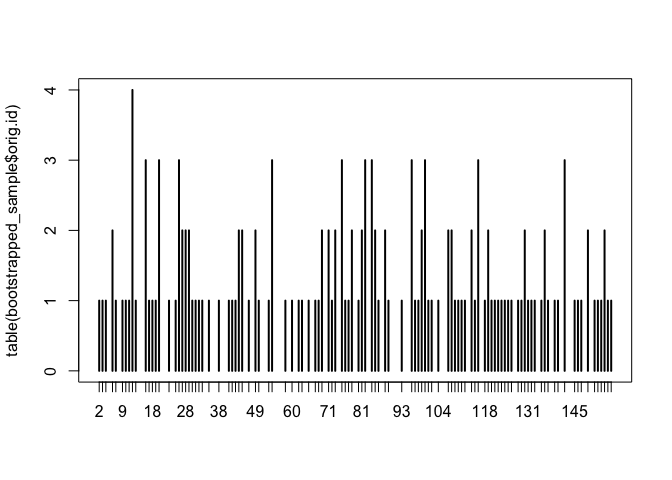
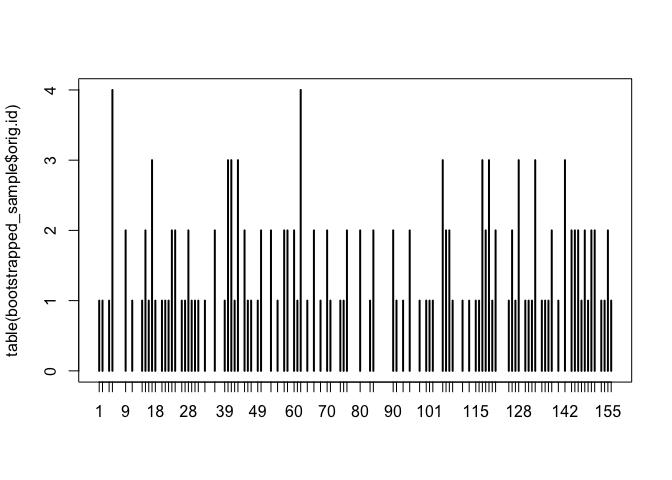
creatinine

Changed region(s): [[0.125, 0.1875, 0.9375, 0.875]]

diff --git a/creatinine/creatinine_bootstrap.md b/creatinine/creatinine_bootstrap.md
@@ -73,27 +73,27 @@ command.
     bootstrapped_sample = sample(creatinine, size = 157, replace=TRUE)
     head(bootstrapped_sample, 20)
 
-    ##      age creatclear orig.id
-    ## 6     36      127.0       6
-    ## 38    34      126.0      38
-    ## 154   24      135.3     154
-    ## 41    23      128.7      41
-    ## 44    26      137.9      44
-    ## 45    26      130.3      45
-    ## 7     38      139.5       7
-    ## 75    27      133.3      75
-    ## 10    32      134.7      10
-    ## 139   27      129.8     139
-    ## 20    71      105.5      20
-    ## 89    24      130.2      89
-    ## 75.1  27      133.3      75
-    ## 62    30      124.4      62
-    ## 49    24      129.0      49
-    ## 3     24      145.8       3
-    ## 104   26      129.6     104
-    ## 50    36      134.6      50
-    ## 9     38      115.2       9
-    ## 30    56      112.3      30
+    ##       age creatclear orig.id
+    ## 21     73      108.8      21
+    ## 53     32      137.9      53
+    ## 144    45      117.8     144
+    ## 130    32      126.6     130
+    ## 148    25      123.0     148
+    ## 135    74       96.6     135
+    ## 108    24      131.7     108
+    ## 93     21      135.9      93
+    ## 119    25      140.8     119
+    ## 57     61      118.6      57
+    ## 133    43      123.2     133
+    ## 18     34      128.6      18
+    ## 115    54      113.9     115
+    ## 46     31      133.9      46
+    ## 144.1  45      117.8     144
+    ## 60     39      124.6      60
+    ## 41     23      128.7      41
+    ## 80     37      121.3      80
+    ## 24     23      133.9      24
+    ## 31     32      117.5      31
 
 If you look carefully, you may see a repeated entry in these first 20
 rows. That's because our bootstrapped sample is a sample with
@@ -138,7 +138,7 @@ different sample means you get for each bootstrapped sample.
     bootstrapped_sample = resample(creatinine)
     mean(bootstrapped_sample$creatclear)
 
-    ## [1] 124.9943
+    ## [1] 124.8217
 
 The final trick is to use the `do` command to automatic the process of
 taking repeated bootstrapped samples and computing the sample mean for
@@ -150,16 +150,16 @@ each one.
     }
 
     ##      result
-    ## 1  124.7611
-    ## 2  125.5624
-    ## 3  124.6771
-    ## 4  125.5790
-    ## 5  126.1140
-    ## 6  124.7140
-    ## 7  125.4510
-    ## 8  123.9255
-    ## 9  124.5605
-    ## 10 123.1822
+    ## 1  126.8019
+    ## 2  123.8828
+    ## 3  125.7191
+    ## 4  126.9376
+    ## 5  125.8873
+    ## 6  124.5503
+    ## 7  125.3854
+    ## 8  124.3280
+    ## 9  125.8242
+    ## 10 124.7159
 
 If this looks unfamiliar, try revisiting the ["Gone
 fishing"](http://jgscott.github.io/teaching/r/gonefishing/gonefishing.html)
@@ -180,7 +180,7 @@ sample mean for each one and visualize the results.
 
     sd(myboot$result)
 
-    ## [1] 0.9551231
+    ## [1] 0.9392241
 
 Because we have different bootstrapped samples, your histogram and
 estimated standard error will look slightly different from mine. But
@@ -226,7 +226,7 @@ sample. Try executing this code block 5-10 different times:
     ## 
     ## Coefficients:
     ## (Intercept)          age  
-    ##    149.7146      -0.6648
+    ##    146.4965      -0.6011
 
 Notice how the slope and intercept of the fitted line change for each
 sample.
@@ -243,12 +243,12 @@ command to automate the whole process and save the result.
     head(myboot2)
 
     ##   Intercept        age    sigma r.squared        F numdf dendf .row .index
-    ## 1  148.4876 -0.6665638 6.483758 0.6955490 354.1132     1   155    1      1
-    ## 2  148.6391 -0.6402596 6.595094 0.6806043 330.2915     1   155    1      2
-    ## 3  148.8856 -0.6505005 7.166824 0.7131784 385.4056     1   155    1      3
-    ## 4  146.8832 -0.5789100 6.662946 0.5973721 229.9708     1   155    1      4
-    ## 5  148.5166 -0.6510012 6.963853 0.6124238 244.9214     1   155    1      5
-    ## 6  146.7119 -0.5863170 6.650395 0.6468713 283.9334     1   155    1      6
+    ## 1  148.2290 -0.6327054 6.787903 0.6262125 259.6741     1   155    1      1
+    ## 2  148.8770 -0.6332059 6.913182 0.6499207 287.7568     1   155    1      2
+    ## 3  148.6194 -0.6349592 6.703134 0.6934170 350.5727     1   155    1      3
+    ## 4  146.1254 -0.5865175 7.251837 0.6332982 267.6868     1   155    1      4
+    ## 5  148.2196 -0.6398906 6.912309 0.7048450 370.1479     1   155    1      5
+    ## 6  147.6896 -0.6231221 7.205105 0.6624543 304.1971     1   155    1      6
 
 Notice that we have separate columns for the intercept, slope on the age
 variable, sigma (the residual standard deviation), and R-squared. (Don't
@@ -261,7 +261,7 @@ distributions for the intercept and slope.
 
     sd(myboot2$Intercept)
 
-    ## [1] 1.42781
+    ## [1] 1.421574
 
     hist(myboot2$age)
 
@@ -269,7 +269,7 @@ distributions for the intercept and slope.
 
     sd(myboot2$age)
 
-    ## [1] 0.03813104
+    ## [1] 0.03839219
 
 ### Confidence intervals
 
@@ -292,7 +292,7 @@ endpoints on the plot.
     myinterval
 
     ##        10%        90% 
-    ## -0.6697513 -0.5721001
+    ## -0.6702646 -0.5749208
 
 We would refer to this interval as an 80% confidence interval for the
 slope of the age variable in our regression model. (As above, your
@@ -312,11 +312,11 @@ for all model parameters:
     confint(myboot2, level=0.8)
 
     ##        name       lower       upper level     method    estimate
-    ## 1 Intercept 146.0846735 149.7207063   0.8 percentile 147.8129158
-    ## 2       age  -0.6697513  -0.5721001   0.8 percentile  -0.6198159
-    ## 3     sigma   6.3588459   7.3099395   0.8 percentile   6.9105379
-    ## 4 r.squared   0.6153846   0.7234035   0.8 percentile   0.6724361
-    ## 5         F 248.0000729 405.3830212   0.8 percentile 318.1901588
+    ## 1 Intercept 146.0836313 149.6998619   0.8 percentile 147.8129158
+    ## 2       age  -0.6702646  -0.5749208   0.8 percentile  -0.6198159
+    ## 3     sigma   6.3414062   7.3740700   0.8 percentile   6.9105379
+    ## 4 r.squared   0.6154664   0.7243072   0.8 percentile   0.6724361
+    ## 5         F 248.0859838 407.2199786   0.8 percentile 318.1901588
 
 You will notice that this gives a slightly different answer to the
 confidence interval we calculated from the quantiles, above. That's
@@ -390,13 +390,57 @@ confidence intervals, it would be wise to check the validity of the
 normality assumption:  
 - Do the residuals look normally distributed? (Make a histogram and
 check whether the histogram looks normal.)  
-- Do the residuals look like they approximately constant variance? (Plot
-the residuals versus the fitted values and look for telltale "fan"
+- Do the residuals look like they have approximately constant variance?
+(Plot the residuals versus the fitted values and look for telltale "fan"
 shapes.)  
 - Do the residuals look independent of each other? (Again, plot the
 residuals versus the fitted values and look for patterns of correlation
-in adjacent residuals.)  
+in adjacent residuals.)
+
 If the answer to any of these three questions is no, then you're
 probably better off with the bootstrapped confidence intervals instead.
 Otherwise the Gaussian-based confidence intervals are likely to be a
 fine approximation.
+
+Let's try these questions with the model above. First, do the residuals
+look approximately normal? We will make a histogram and check:
+
+    hist(resid(lm1))
+
+![](creatinine_bootstrap_files/figure-markdown_strict/unnamed-chunk-19-1.png)
+
+It seems so. Second, do the residuals look like they have approximately
+constant variance? We will plot the residuals versus the fitted values
+and see whether there are any "fan" shapes:
+
+    plot(resid(lm1) ~ fitted(lm1))
+
+![](creatinine_bootstrap_files/figure-markdown_strict/unnamed-chunk-20-1.png)
+
+There are no fan shapes here; the residuals exhibit a similar scale of
+variation regardless of the fitted value from the regression model.
+
+The same plot above also gives us an answer to the third question: do
+the residuals look independent of each other? We do not see any obvious
+patterns of dependence, in which adjacent residuals look more similar to
+each other than far-apart residuals.
+
+Therefore, in light of the answers to these three questions, we are safe
+to use the standard errors and confidence intervals from the Gaussian
+(normal) model. You'll notice, in fact, that the bootstrapped confidence
+intervals and the Gaussian confidence intervals are nearly identical:
+
+    confint(myboot2)
+
+    ##        name       lower       upper level     method    estimate
+    ## 1 Intercept 145.1780197 150.7291912  0.95 percentile 147.8129158
+    ## 2       age  -0.7025909  -0.5465182  0.95 percentile  -0.6198159
+    ## 3     sigma   6.0970427   7.6388917  0.95 percentile   6.9105379
+    ## 4 r.squared   0.5773234   0.7476787  0.95 percentile   0.6724361
+    ## 5         F 211.7106819 459.2972818  0.95 percentile 318.1901588
+
+    confint(lm1)
+
+    ##                   2.5 %      97.5 %
+    ## (Intercept) 145.0875702 150.5382614
+    ## age          -0.6884549  -0.5511768
